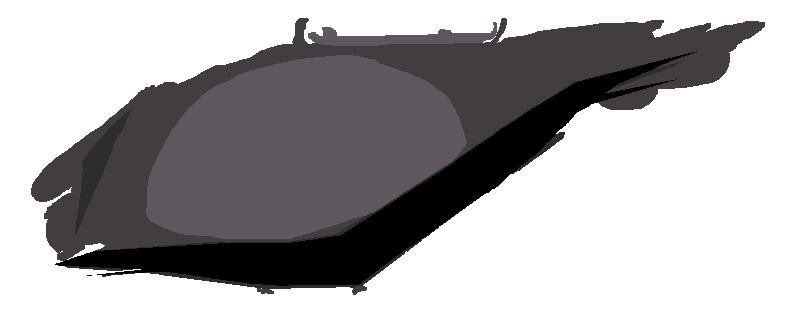
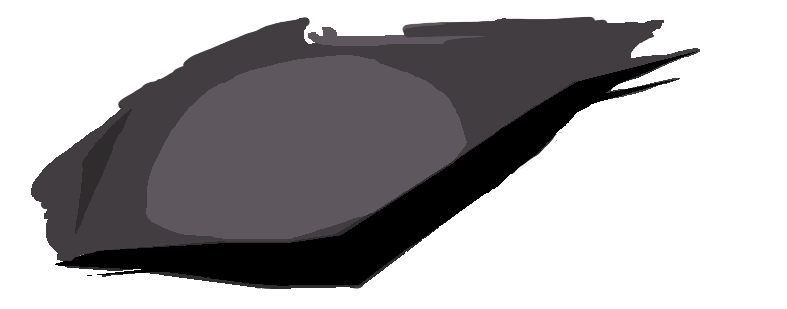
minor Fix

diff --git a/signalis.js b/signalis.js
@@ -417,11 +417,11 @@ window.addEventListener('load', () => {
 	})
 	eye.addReflection(reflectinner, 0, -40, 0.2, 0.10, 200)
 	eye.addReflection(reflectdepth, 0, -19, 0.8, 0.10, 400)
-	eye.addReflection(reflectside, 100, -80, 1, 0.09, 60)
+	eye.addReflection(reflectside, 120, -80, 1, 0.09, 70)
 	eye.addReflection(reflectfront, 0, 0, 0.5, 0.09, 60)
 	const crt = new FaceCRT(ctx, canvas.width, canvas.height, {
-		lineSpacing: 3, 
-		lineOpacity: 0.9,
+		lineSpacing: 2, 
+		lineOpacity: 0.5,
 		flickerStrength: 0.3,
 		vignetteStrength: 0.8,
 		distortion: 0.005
@@ -447,4 +447,5 @@ window.addEventListener('load', () => {
 		requestAnimationFrame(animate);
 	}
 	animate()	
+		
 })

diff --git a/README.md b/README.md
@@ -1,1 +1,11 @@
-i love Signalis 🥀🥀🥀
+About This Project
+
+This is my personal recreation of the LSTR main menu eye from Signalis. I built it using only plain JavaScript and HTML5 Canvas because I wanted to see if I could capture that quiet, eerie feeling the original has — the way it stares back, calm but unsettling.
+
+Signalis means a lot to me. Its atmosphere, its pacing, the way it handles silence — it all feels deliberate and human. Recreating the eye wasn’t about coding something impressive; it was about understanding the rhythm and subtlety behind that design.
+
+I learned a lot while making this. Mostly patience — breaking the animation down frame by frame, studying how motion and stillness balance each other. It reminded me how much thought goes into the smallest details of games like this.
+
+There’s no framework, no engine, nothing extra — just a canvas, some code, and time. my attempt to bring that moment back to life in the simplest way I could.
+
+This project was made out of love and respect for Signalis and its creators. All original credit for the design and inspiration belongs entirely to them.
